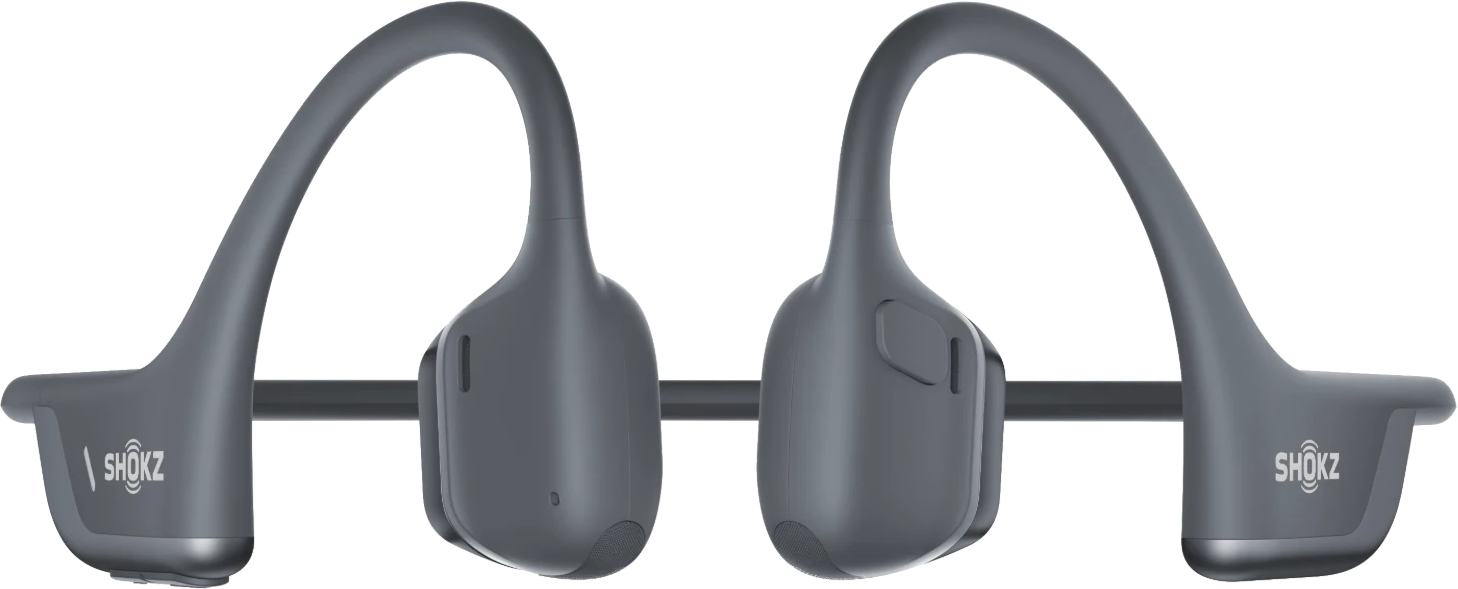
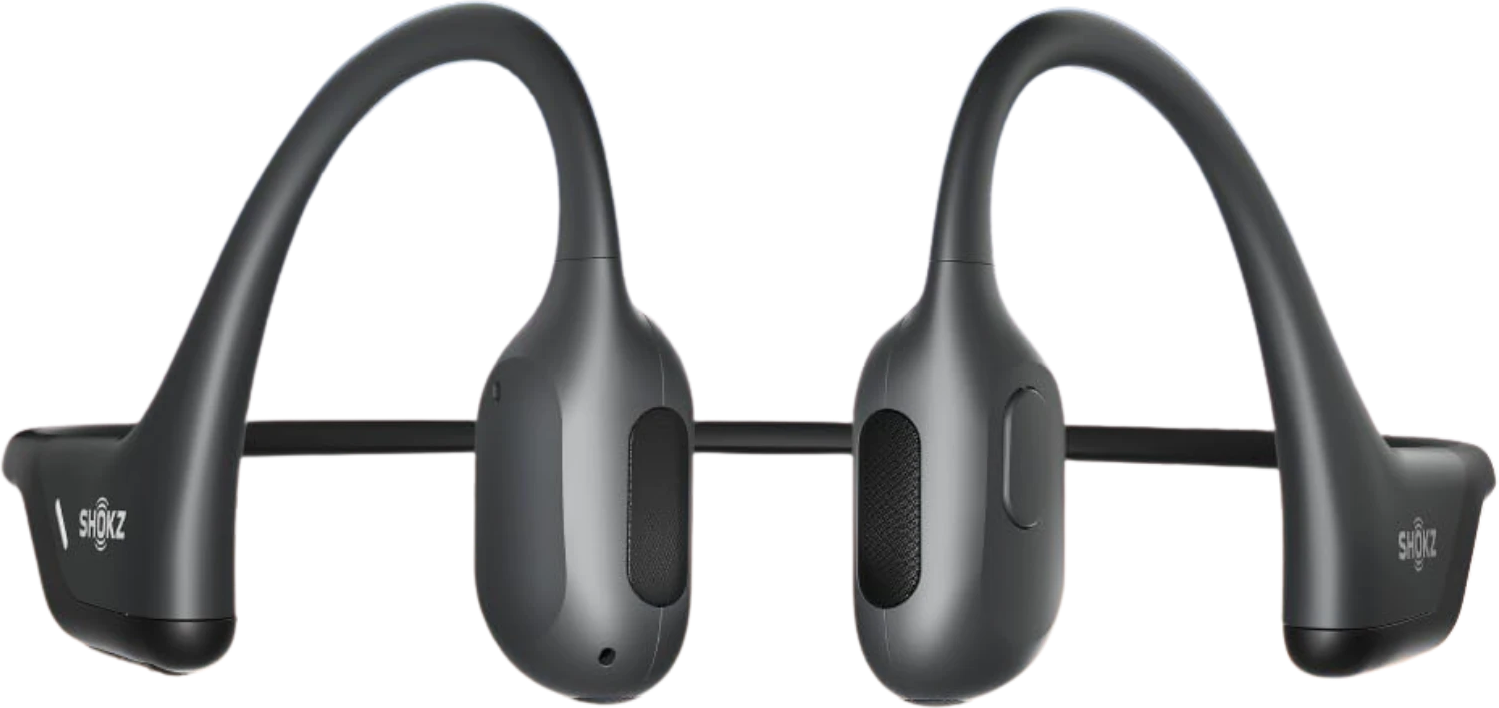
Shokz OpenRun Pro reel: switch to the 1st-gen images supplied by City Store
- hero/front transparent product shots; TurboPitch slide photo (no text) for the bone-conduction scene
- 'Ultra léger' reworked around the product (no 1st-gen runner photo); hook layout fixed; stand-in tag gone

Claude-Session: https://claude.ai/code/session_0111VN6GzhEYNR68HisJpFoG

diff --git a/src/reels/shokz/ZScenes.tsx b/src/reels/shokz/ZScenes.tsx
@@ -6,7 +6,7 @@ import { useLayout } from "../../layout";
 import { IconName, LineIcon } from "../../components/Icons";
 import { ProductImage } from "../../components/ProductImage";
 import { Burst, SceneShell, useSceneFrame } from "../../components/SceneShell";
-import { OFFICIAL, STAND_IN, zev, zscene } from "./timeline";
+import { EAR_TRANSDUCER, OFFICIAL, STAND_IN, zev, zscene } from "./timeline";
 
 const clamp = { extrapolateLeft: "clamp", extrapolateRight: "clamp" } as const;
 const easeOut = (x: number) => 1 - Math.pow(1 - x, 3);
@@ -80,7 +80,7 @@ export const ZHook: React.FC = () => {
   const frame = useSceneFrame("hook");
   const L = useLayout();
   const P = L.portrait;
-  const G = P ? { title: 236, tsize: 70, bud: { x: 640, y: 420, w: 200 }, car: { y: 760, w: 380 }, warn: { y: 1100 } } : { title: 40, tsize: 54, bud: { x: 720, y: 160, w: 150 }, car: { y: 380, w: 300 }, warn: { y: 600 } };
+  const G = P ? { title: 236, tsize: 70, bud: { x: 720, y: 420, w: 150 }, car: { y: 600, w: 360 }, warn: { y: 330 } } : { title: 40, tsize: 54, bud: { x: 800, y: 210, w: 120 }, car: { y: 370, w: 280 }, warn: { y: 118 } };
   const budAt = zev("hook.buds"), carAt = zev("hook.car"), dAt = zev("hook.danger");
   const bud = pop(frame, budAt);
   const carX = interpolate(frame, [carAt - 6, dAt + 10], [-(G.car.w + 40), L.w * 0.55], { ...clamp, easing: (x) => x * x });
@@ -116,7 +116,7 @@ export const ZHook: React.FC = () => {
         </div>
       )}
       {frame >= dAt - 1 && (
-        <div style={{ position: "absolute", left: P ? 340 : 0, right: P ? 70 : 0, top: G.warn.y, display: "flex", justifyContent: "center" }}>
+        <div style={{ position: "absolute", left: 0, right: P ? 70 : 0, top: G.warn.y, display: "flex", justifyContent: "center" }}>
           <div style={{ ...warn, display: "flex", alignItems: "center", gap: 12, fontFamily: FONT, fontWeight: 900, fontSize: P ? 46 : 40, color: "#fff", background: "#FF3B5C", padding: "8px 28px", borderRadius: 999, boxShadow: "0 12px 30px rgba(80,0,20,0.4)", whiteSpace: "nowrap" }}>
             ⚠ DANGER
           </div>
@@ -164,51 +164,40 @@ export const ZBone: React.FC = () => {
   const frame = useSceneFrame("bone");
   const L = useLayout();
   const P = L.portrait;
-  const G = P ? { head: { cx: 470, cy: 640, s: 1.4 }, chips: { y: 1080 }, size: 36 } : { head: { cx: 300, cy: 470, s: 1.05 }, chips: { y: 220 }, size: 32 };
-  const tAt = zev("bn.tech"), bAt = zev("bn.bones"), eAt = zev("bn.ears"), oAt = zev("bn.open"), hAt = zev("bn.hear");
-  const s = G.head.s;
-  // vibration rings travel along the cheekbone
+  const G = P ? { card: { x: 140, y: 330, w: 690 }, chips: { y: 1080 }, size: 36 } : { card: { x: 40, y: 100, w: 470 }, chips: { y: 200 }, size: 32 };
+  const tAt = zev("bn.tech"), bAt = zev("bn.bones"), oAt = zev("bn.open"), hAt = zev("bn.hear");
+  const enter = sp(frame, tAt, { damping: 13, stiffness: 120 });
+  const cardH = G.card.w * OFFICIAL.ear.aspect;
+  const tx = G.card.x + EAR_TRANSDUCER.x * G.card.w, ty = G.card.y + EAR_TRANSDUCER.y * cardH;
+  // vibration rings from the transducer (bone conduction)
   const vib = Array.from({ length: 4 }).map((_, k) => {
     if (frame < bAt) return null;
     const life = ((frame - bAt + k * 6) % 24) / 24;
-    const r = (20 + 70 * life) * s;
-    return <circle key={k} cx={G.head.cx + 34 * s} cy={G.head.cy + 6 * s} r={r} fill="none" stroke={COLORS.cyan} strokeWidth={5} opacity={(1 - life) * 0.9} />;
+    const r = (60 + 160 * life) * (G.card.w / 760);
+    return <div key={k} style={{ position: "absolute", left: tx - r, top: ty - r, width: r * 2, height: r * 2, borderRadius: "50%", border: `5px solid ${COLORS.cyan}`, opacity: (1 - life) * 0.9 }} />;
   });
-  // ambient sounds reaching the open ear
-  const AMB: { at: number; icon: IconName; dx: number; dy: number }[] = [
-    { at: hAt, icon: "car", dx: -260, dy: -170 },
-    { at: hAt + 6, icon: "chat", dx: -300, dy: 40 },
-    { at: hAt + 12, icon: "run", dx: -220, dy: 230 },
+  // ambient sounds still reaching the open ear
+  const AMB: { at: number; icon: IconName; x: number; y: number }[] = [
+    { at: hAt, icon: "car", x: 0.08, y: 0.14 },
+    { at: hAt + 6, icon: "chat", x: 0.05, y: 0.55 },
+    { at: hAt + 12, icon: "run", x: 0.2, y: 0.9 },
   ];
-  const earX = G.head.cx - 20 * s, earY = G.head.cy - 10 * s;
   return (
     <SceneShell id="bone">
       <Heading frame={frame} at={tAt} title="Conduction osseuse" P={P} />
-      <svg width={L.w} height={L.h} style={{ position: "absolute", left: 0, top: 0 }}>
-        {/* side-view head silhouette (generic) */}
-        <g opacity={sp(frame, tAt)}>
-          <path d={`M ${G.head.cx - 120 * s} ${G.head.cy + 160 * s} C ${G.head.cx - 150 * s} ${G.head.cy + 40 * s}, ${G.head.cx - 160 * s} ${G.head.cy - 170 * s}, ${G.head.cx} ${G.head.cy - 190 * s} C ${G.head.cx + 130 * s} ${G.head.cy - 200 * s}, ${G.head.cx + 150 * s} ${G.head.cy - 60 * s}, ${G.head.cx + 150 * s} ${G.head.cy - 10 * s} L ${G.head.cx + 175 * s} ${G.head.cy + 50 * s} L ${G.head.cx + 145 * s} ${G.head.cy + 60 * s} C ${G.head.cx + 145 * s} ${G.head.cy + 130 * s}, ${G.head.cx + 90 * s} ${G.head.cy + 150 * s}, ${G.head.cx + 40 * s} ${G.head.cy + 150 * s} L ${G.head.cx + 30 * s} ${G.head.cy + 210 * s}`} fill="rgba(255,255,255,0.16)" stroke="#fff" strokeWidth={5} strokeLinejoin="round" />
-          {/* ear */}
-          <path d={`M ${earX} ${earY - 40 * s} C ${earX - 40 * s} ${earY - 40 * s}, ${earX - 44 * s} ${earY + 40 * s}, ${earX - 6 * s} ${earY + 44 * s}`} fill="none" stroke="#fff" strokeWidth={6} strokeLinecap="round" />
-          {/* headset: band around the back of the ear, transducer on the cheekbone */}
-          <path d={`M ${earX - 70 * s} ${earY + 110 * s} C ${earX - 80 * s} ${earY - 20 * s}, ${earX - 40 * s} ${earY - 90 * s}, ${G.head.cx + 30 * s} ${G.head.cy - 20 * s}`} fill="none" stroke="#2c2f36" strokeWidth={14 * s} strokeLinecap="round" opacity={ramp(frame, tAt + 4, tAt + 12)} />
-          <rect x={G.head.cx + 18 * s} y={G.head.cy - 20 * s} width={34 * s} height={46 * s} rx={12 * s} fill="#2c2f36" stroke={COLORS.cyan} strokeWidth={3} opacity={ramp(frame, tAt + 4, tAt + 12)} />
-        </g>
-        {vib}
-        {/* open-ear check */}
-        {frame >= oAt && (
-          <g transform={`translate(${earX - 30 * s} ${earY - 110 * s}) scale(${pop(frame, oAt)})`}>
-            <circle r={34} fill="#2BD27A" stroke="#fff" strokeWidth={5} />
-            <path d="M -14 0 L -3 11 L 16 -12" fill="none" stroke="#fff" strokeWidth={7} strokeLinecap="round" strokeLinejoin="round" />
-          </g>
-        )}
-      </svg>
+      <div style={{ position: "absolute", left: G.card.x, top: G.card.y, width: G.card.w, height: cardH, borderRadius: 34, overflow: "hidden", border: "6px solid rgba(255,255,255,0.9)", boxShadow: "0 30px 70px rgba(6,14,90,0.5)", transform: `translateY(${(1 - enter) * 900}px) rotate(${lerp(6, -1, enter)}deg)` }}>
+        <Img src={staticFile(OFFICIAL.ear.src)} style={{ width: "100%", height: "100%", objectFit: "cover", transform: `scale(${1 + 0.06 * ramp(frame, tAt, tAt + 240)})` }} />
+      </div>
+      {vib}
+      {frame >= oAt && (
+        <div style={{ position: "absolute", left: G.card.x + G.card.w * 0.3 - 34, top: G.card.y + cardH * 0.08, width: 68, height: 68, borderRadius: "50%", background: "#2BD27A", border: "5px solid #fff", display: "flex", alignItems: "center", justifyContent: "center", transform: `scale(${pop(frame, oAt)})`, boxShadow: "0 8px 20px rgba(6,14,90,0.4)" }}>
+          <LineIcon name="check" size={38} stroke={9} />
+        </div>
+      )}
       {AMB.map((a, i) => {
         if (frame < a.at) return null;
-        const k = easeOut(ramp(frame, a.at, a.at + 18));
-        const x = lerp(earX + a.dx, earX + a.dx * 0.55, k), y = lerp(earY + a.dy, earY + a.dy * 0.55, k);
         return (
-          <div key={i} style={{ position: "absolute", left: x - 40, top: y - 40, width: 80, height: 80, borderRadius: "50%", background: "#fff", display: "flex", alignItems: "center", justifyContent: "center", transform: `scale(${pop(frame, a.at)})`, boxShadow: "0 10px 24px rgba(6,14,90,0.35)" }}>
+          <div key={i} style={{ position: "absolute", left: G.card.x + a.x * G.card.w - 40, top: G.card.y + a.y * cardH - 40, width: 80, height: 80, borderRadius: "50%", background: "#fff", display: "flex", alignItems: "center", justifyContent: "center", transform: `scale(${pop(frame, a.at)})`, boxShadow: "0 10px 24px rgba(6,14,90,0.35)" }}>
             <LineIcon name={a.icon} size={50} stroke={7} color={COLORS.blue} />
           </div>
         );
@@ -227,33 +216,35 @@ export const ZLight: React.FC = () => {
   const frame = useSceneFrame("light");
   const L = useLayout();
   const P = L.portrait;
-  const G = P ? { card: { x: 70, y: 320, w: 560 }, g: { x: 650, y: 420, s: 170 }, chips: { y: 1000 } } : { card: { x: 50, y: 90, w: 400 }, g: { x: 520, y: 140, s: 140 }, chips: { y: 470 } };
+  const G = P ? { hero: { x: 100, y: 400, w: 860 }, g: { y: 790, s: 170 }, chips: { y: 1080 } } : { hero: { x: 40, y: 150, w: 560 }, g: { y: 150, s: 140 }, chips: { y: 470 } };
   const at = zscene("light").from;
   const gAt = zev("lt.grams"), sAt = zev("lt.steady"), rAt = zev("lt.run"), jAt = zev("lt.jump");
   const enter = sp(frame, at, { damping: 13, stiffness: 120 });
   const grams = Math.round(29 * easeOut(ramp(frame, gAt, gAt + 12)));
   const g1 = slam(frame, gAt, 2);
-  // the runner photo bounces on "run/jump" while the headset stays put
-  const bounce = frame >= rAt ? Math.abs(Math.sin((frame - rAt) * 0.45)) * -18 : 0;
-  const imgH = G.card.w * OFFICIAL.runner.aspect;
+  // bounces with the run / jump, but the fit stays locked (no wobble)
+  const bounce = frame >= rAt ? -Math.abs(Math.sin((frame - rAt) * 0.45)) * (frame >= jAt ? 60 : 26) : 0;
+  const lock = ramp(frame, sAt, sAt + 8);
+  const float = Math.sin(frame / 30 * Math.PI) * 10 * (1 - lock); // floats like a feather until "ثابت"
+  const imgH = G.hero.w * OFFICIAL.hero.aspect;
   return (
     <SceneShell id="light">
       <Heading frame={frame} at={at + 2} title="Ultra léger" P={P} />
-      <div style={{ position: "absolute", left: G.card.x, top: G.card.y, width: G.card.w, height: imgH, borderRadius: 34, overflow: "hidden", border: "6px solid #fff", background: "#fff", boxShadow: "0 30px 70px rgba(6,14,90,0.5)", transform: `translateY(${(1 - enter) * 900 + bounce}px) rotate(${lerp(8, -2, enter)}deg)` }}>
-        <Img src={staticFile(OFFICIAL.runner.src)} style={{ width: "100%", height: "100%", objectFit: "cover" }} />
+      <div style={{ position: "absolute", left: G.hero.x, top: G.hero.y, transform: `translateY(${(1 - enter) * -700 + bounce + float}px) rotate(${-3 + (1 - lock) * Math.sin(frame * 0.12) * 4}deg)`, filter: "drop-shadow(0 30px 40px rgba(6,14,90,0.45))" }}>
+        <ProductImage src={OFFICIAL.hero.src} aspect={OFFICIAL.hero.aspect} width={G.hero.w} sweep={interpolate(frame, [gAt, gAt + 16], [-0.3, 1.3], clamp)} />
+        {lock > 0 && <div style={{ position: "absolute", left: -12, top: -12, width: G.hero.w * 0.36, height: imgH + 24, borderRadius: 40, border: "5px solid #fff", opacity: lock * 0.9, boxShadow: `0 0 18px ${COLORS.cyan}` }} />}
       </div>
       {frame >= gAt - 1 && (
-        <div style={{ position: "absolute", left: G.g.x, top: G.g.y, display: "flex", flexDirection: "column", alignItems: "center", gap: 6, fontFamily: FONT, color: "#fff", ...g1 }}>
+        <div style={{ position: "absolute", left: P ? 0 : 600, right: P ? 70 : 40, top: G.g.y, display: "flex", flexDirection: "column", alignItems: "center", gap: 6, fontFamily: FONT, color: "#fff", ...g1 }}>
           <div style={{ fontWeight: 900, fontSize: G.g.s, lineHeight: 1, textShadow: "0 10px 30px rgba(8,20,110,0.4)" }}>{grams}<span style={{ fontSize: "0.4em" }}> g</span></div>
           <div style={{ fontWeight: 700, fontSize: G.g.s * 0.17 }}>seulement</div>
         </div>
       )}
-      <div style={{ position: "absolute", left: P ? 340 : 480, right: P ? 70 : 40, top: G.chips.y, display: "flex", flexWrap: "wrap", gap: 14, justifyContent: "center" }}>
+      <div style={{ position: "absolute", left: P ? 340 : 600, right: P ? 70 : 40, top: G.chips.y, display: "flex", flexWrap: "wrap", gap: 14, justifyContent: "center" }}>
         <Chip frame={frame} at={sAt} text="Reste en place" icon="lock" size={P ? 38 : 32} solid />
         <Chip frame={frame} at={rAt} text="Course" icon="run" size={P ? 38 : 32} />
         <Chip frame={frame} at={jAt} text="Sauts" icon="spark" size={P ? 38 : 32} />
       </div>
-      <StandInTag />
     </SceneShell>
   );
 };

diff --git a/src/reels/shokz/timeline.ts b/src/reels/shokz/timeline.ts
@@ -11,6 +11,8 @@ export const zevList = (k: string) => evListIn(ZTL, k);
 type P = { src: string; w: number; h: number };
 const PR = productsJson as unknown as Record<string, P> & { _standIn?: boolean };
 const img = (k: string) => ({ src: PR[k].src, aspect: PR[k].h / PR[k].w });
-export const OFFICIAL = { hero: img("hero"), front: img("front"), side: img("side"), runner: img("runner") };
+export const OFFICIAL = { hero: img("hero"), front: img("front"), ear: img("ear") };
+// transducer position inside the "ear" photo card (fractions)
+export const EAR_TRANSDUCER = { x: 0.55, y: 0.5 };
 /** true while the OpenRun Pro 2 images are used as stand-ins (a visible "provisional" tag is drawn) */
 export const STAND_IN = Boolean(PR._standIn);

diff --git a/reels/shokz/cutout.py b/reels/shokz/cutout.py
@@ -1,8 +1,11 @@
-"""Shokz images -> assets/shokz/products/ + public/shokz/products/.
+"""Shokz OpenRun Pro (1st gen) images -> assets/shokz/products/ + public/shokz/products/.
 
 City Store sells the OpenRun Pro (1st gen). The first images supplied (shokz_openrun_pro2_*) show the OpenRun
-Pro 2 (DualPitch label, square transducers), so they are only STAND-INS until OpenRun Pro (1st gen) images are
-supplied: put them in src/ and point SLOTS at them (any of: transparent PNG/WebP, or white background)."""
+Pro 2 (DualPitch label) and are NOT used. Second set (openrunpro_*) = 1st gen:
+- openrunpro_angle.png / openrunpro_front.webp: transparent product shots (cropped to alpha)
+- openrunpro_turbopitch_slide.webp: Shokz marketing slide; only the photo below its English text is used
+  ("ear" photo card for the bone-conduction scene)
+- openrunpro_controls_slide_NOT_USED.png: not used (feature not in the VO)"""
 import json, pathlib, shutil, sys
 from PIL import Image
 sys.path.insert(0, str(pathlib.Path(__file__).resolve().parents[2] / "scripts"))
@@ -14,10 +17,8 @@ dst = ROOT / "assets" / "shokz" / "products"
 pub = ROOT / "public" / "shokz" / "products"
 pub.mkdir(parents=True, exist_ok=True)
 SLOTS = {  # key -> source file
-    "hero": "shokz_openrun_pro2_angle.png",        # STAND-IN (Pro 2)
-    "front": "shokz_openrun_pro2_front.webp",      # STAND-IN (Pro 2)
-    "side": "shokz_openrun_pro2_dualpitch_closeup.png",  # STAND-IN (Pro 2)
-    "runner": "shokz_openrun_pro2_runner.png",     # STAND-IN (Pro 2), lifestyle
+    "hero": "openrunpro_angle.png",
+    "front": "openrunpro_front.webp",
 }
 STAND_IN = any("pro2" in v for v in SLOTS.values())
 manifest = {"_standIn": STAND_IN}
@@ -31,5 +32,10 @@ for key, name in SLOTS.items():
     shutil.copy(dst / f"{key}.png", pub / f"{key}.png")
     w, h = Image.open(dst / f"{key}.png").size
     manifest[key] = {"src": f"shokz/products/{key}.png", "w": w, "h": h}
+# photo card: TurboPitch slide cropped below its text (transducer at ~(0.55, 0.50) of the crop)
+ear = Image.open(src / "openrunpro_turbopitch_slide.webp").convert("RGB").crop((250, 470, 1150, 1400))
+ear.save(dst / "ear.jpg", quality=92)
+shutil.copy(dst / "ear.jpg", pub / "ear.jpg")
+manifest["ear"] = {"src": "shokz/products/ear.jpg", "w": ear.width, "h": ear.height}
 (ROOT / "public" / "shokz" / "data" / "products.json").write_text(json.dumps(manifest, indent=1) + "\n")
 print(json.dumps(manifest))

diff --git a/reels/shokz/SOURCES.md b/reels/shokz/SOURCES.md
@@ -1,0 +1,31 @@
+# Shokz OpenRun Pro (1st gen) reel: sources
+
+**Length: 40 s.** The supplied VO is 42.3 s (30 s would have needed ~1.17-1.21x); as with the previous reels the user
+approved going over 30 s ("the same as the last video"), so the VO is kept at natural speed. `reel.json` sets
+`maxSeconds: 60`.
+
+## Product: OpenRun Pro **1st generation** (confirmed by City Store)
+The first images supplied (`shokz_openrun_pro2_*`) show the **OpenRun Pro 2** ("DualPitch" printed on the earpiece),
+which does not match the VO's model/specs; City Store confirmed it sells the 1st gen and sent a second set.
+
+| Original (src/) | Output | Notes |
+|---|---|---|
+| `openrunpro_angle.png` (2000×2000, transparent) | `hero.png` | |
+| `openrunpro_front.webp` (2000×2000, transparent) | `front.png` | |
+| `openrunpro_turbopitch_slide.webp` (Shokz slide, "9th TurboPitch") | `ear.jpg` | photo only, cropped **below** the English text; half-cut logo cropped off |
+| `openrunpro_controls_slide_NOT_USED.png` | (none) | not used: feature not in the VO |
+| `shokz_openrun_pro2_*` | (none) | **not used**: OpenRun Pro 2 |
+
+## Specs on screen (OpenRun Pro, 1st gen)
+Bone conduction (open ears), **29 g**, battery **up to 10 h**, **5 min charge = 1.5 h**, **IP55** (sweat & rain):
+https://versus.com/en/shokz-openrun-pro-vs-shokz-openrun-pro-2 ·
+https://www.soundguys.com/shokz-openrun-pro-2-vs-openrun-pro-should-you-upgrade-128137/ ·
+https://simons-reviews.com/shokz-openrun-pro-2-vs-openrun-pro-a-detailed-comparison/ ·
+https://www.rtings.com/headphones/tools/compare/shokz-openrun-pro-bone-conduction-vs-shokz-openrun-pro-2-bone-conduction/31212/72946
+(Sources differ on the 1st-gen weight, 27-29 g; the VO's 29 g matches versus.com.)
+
+## Voice-over / audio
+- Single take (`assets/shokz/vo/vo_full_take.wav`, **42.29 s**) + script; pauses ≤ 0.14 s, sentence breaks 0.24 s
+  → VO 36.6 s, ends at 36.65 s; end card 36.75–40 s, final frame held from 39.0 s. The line-2 start was located
+  from the /ʃ/ of "Shokz" after the 3.05 s pause.
+- Hook: drawn generic earbud and car (no brand); SFX bus/horn. Music: original A-minor running beat, 40 s.

diff --git a/README.md b/README.md
@@ -34,6 +34,7 @@ npm run studio                   # interactive preview
 | iPhone 18 Pro (FR) | `Reel9x16`, `Reel1x1`, `Cover` | `out/` | `npm run build` |
 | DJI Mic Mini 2 (Darija) | `MicminiReel9x16`, `MicminiReel1x1`, `MicminiCover` | `out/micmini/` | `npm run micmini:build` |
 | AirPods 5 (Darija, **40 s**, user-approved over 30 s) | `AirpodsReel9x16`, `AirpodsReel1x1`, `AirpodsCover` | `out/airpods/` | `npm run airpods:build` |
+| Shokz OpenRun Pro, 1st gen (Darija, **40 s**, user-approved over 30 s) | `ShokzReel9x16`, `ShokzReel1x1`, `ShokzCover` | `out/shokz/` | `npm run shokz:build` |
 | Apple Watch Ultra 4 (Darija) | `WatchReel9x16`, `WatchReel1x1`, `WatchCover` | `out/watch/` | `npm run watch:build` |
 | Galaxy Watch8 Classic + Ultra2 (Darija) | `GalaxyReel9x16`, `GalaxyReel1x1`, `GalaxyCover` | `out/galaxy/` | `npm run galaxy:build` |
 | Sony WH-1000XM6 + XM5 (Darija) | `SonyReel9x16`, `SonyReel1x1`, `SonyCover` | `out/sony/` | `npm run sony:build` |
